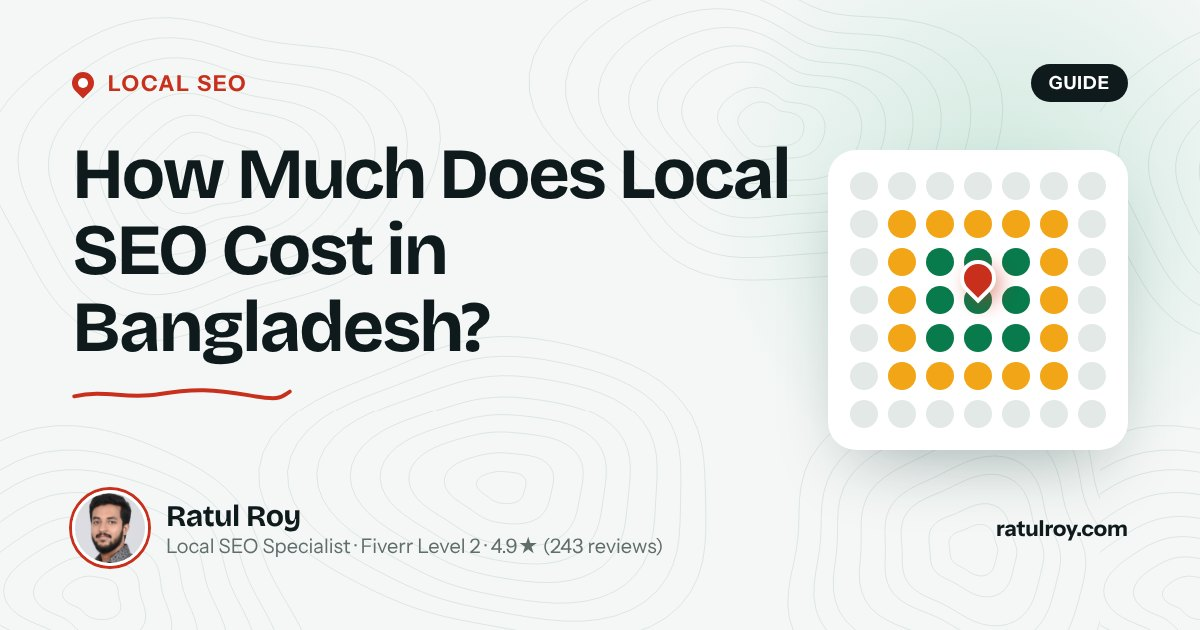
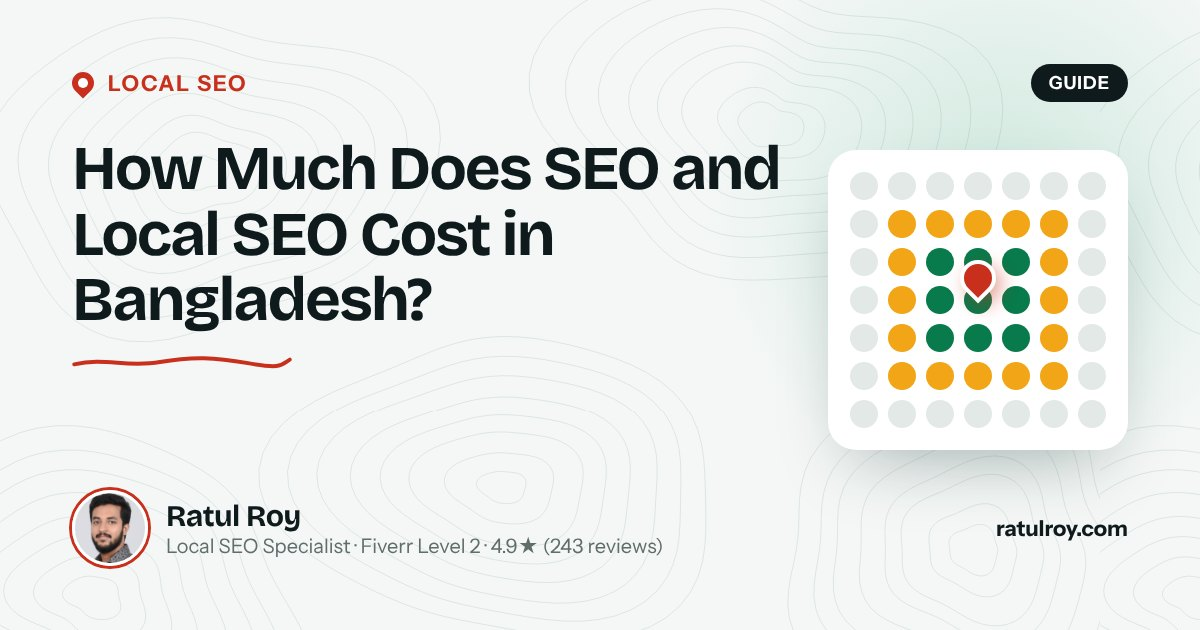
Add Hawk Towing & Auto case study (Beaumont, TX)
Claude-Session: https://claude.ai/code/session_01TMn6JVnDvzd5fYDkLRyAxb

Changed region(s): [[0.0617, 0.2111, 0.6783, 0.6333]]

diff --git a/src/data/home.ts b/src/data/home.ts
@@ -357,6 +357,15 @@ export const auditTags = [
 
 export const caseStudies = [
   {
+    category: "Towing SEO · Beaumont, TX",
+    value: "#1",
+    label: "Towing searches in Beaumont",
+    title: "Hawk Towing & Auto: #1 on Google for Towing in Beaumont",
+    href: "/case-studies/hawk-towing-beaumont",
+    image: "cases/hawk/wrecker-service-beaumont-serp.jpg",
+    text: "One page per service took a Beaumont towing company to #1 organic for towing, wrecker and cash-for-junk-cars searches, ahead of sites with far bigger link profiles.",
+  },
+  {
     category: "Google Maps Ranking",
     value: "+38%",
     label: "Map Pack Visibility",
